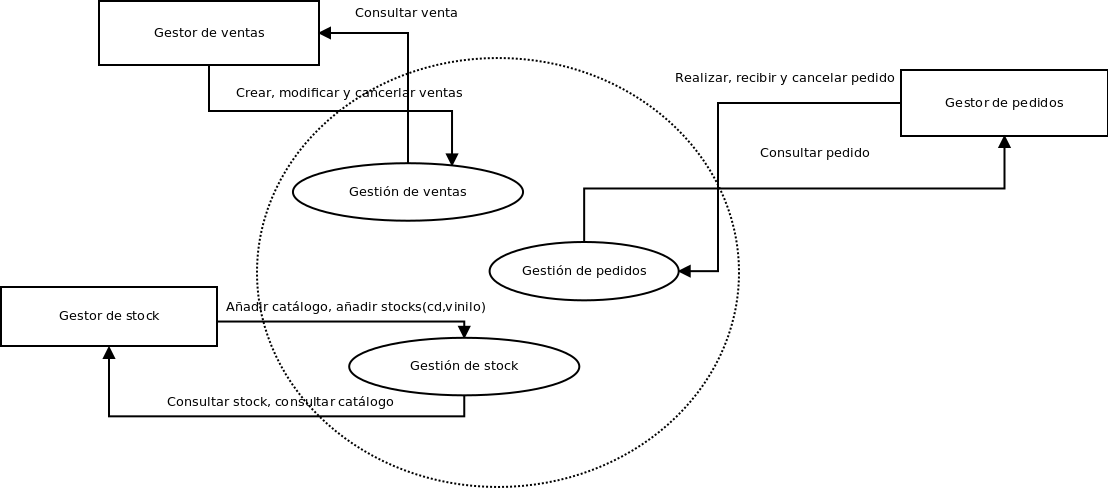
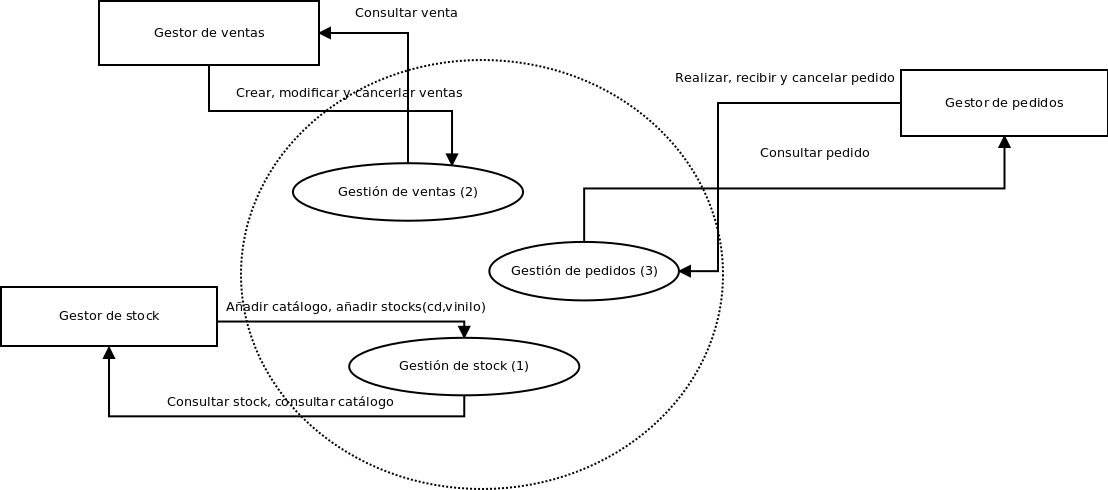
Añadido armazón D

diff --git a/doc/memoria.md b/doc/memoria.md
@@ -290,6 +290,14 @@ de realización, pero no tendrá ninguna otra fecha.
 
 \imgn{1.1}{./diagramas/armazon_F.png}
 
+#### Esquemas externos armazón F
+
+\imgn{0.9}{./diagramas/externos_F.png}
+
+#### Armazón D
+
+\imgn{0.4}{./diagramas/armazon_D.png}
+
 
 ## Diagrama conceptual completo
 
